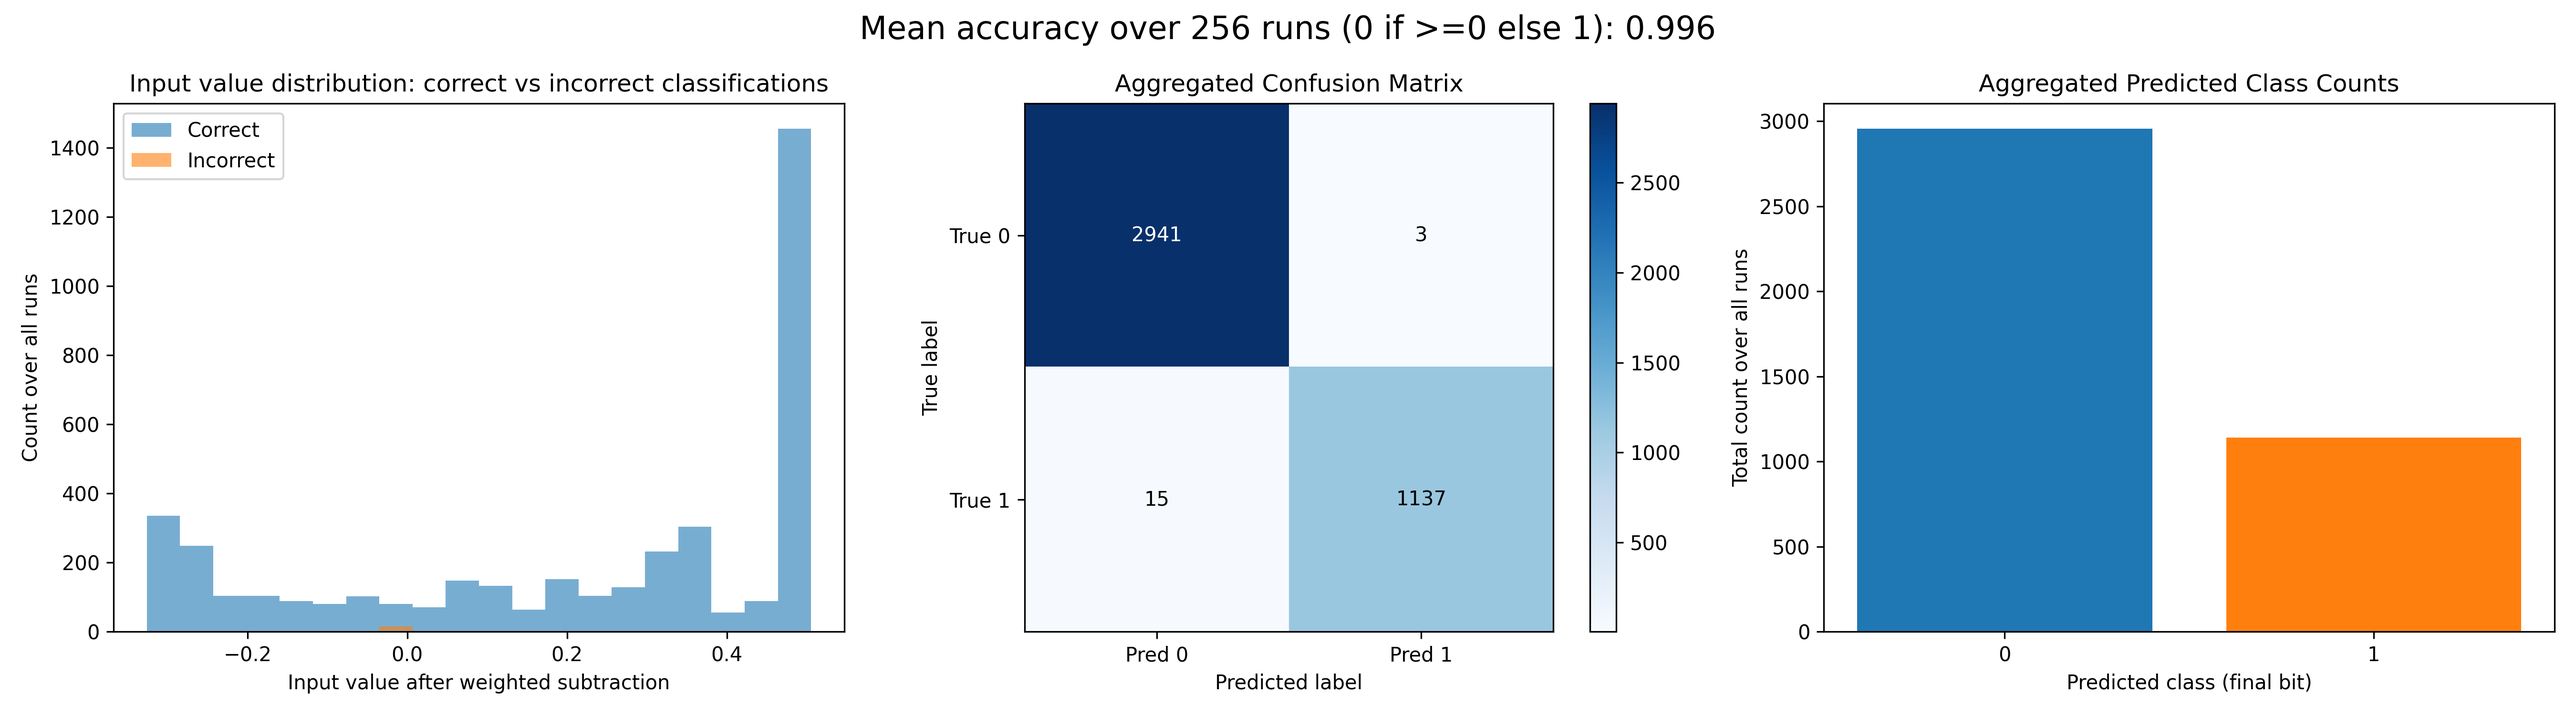
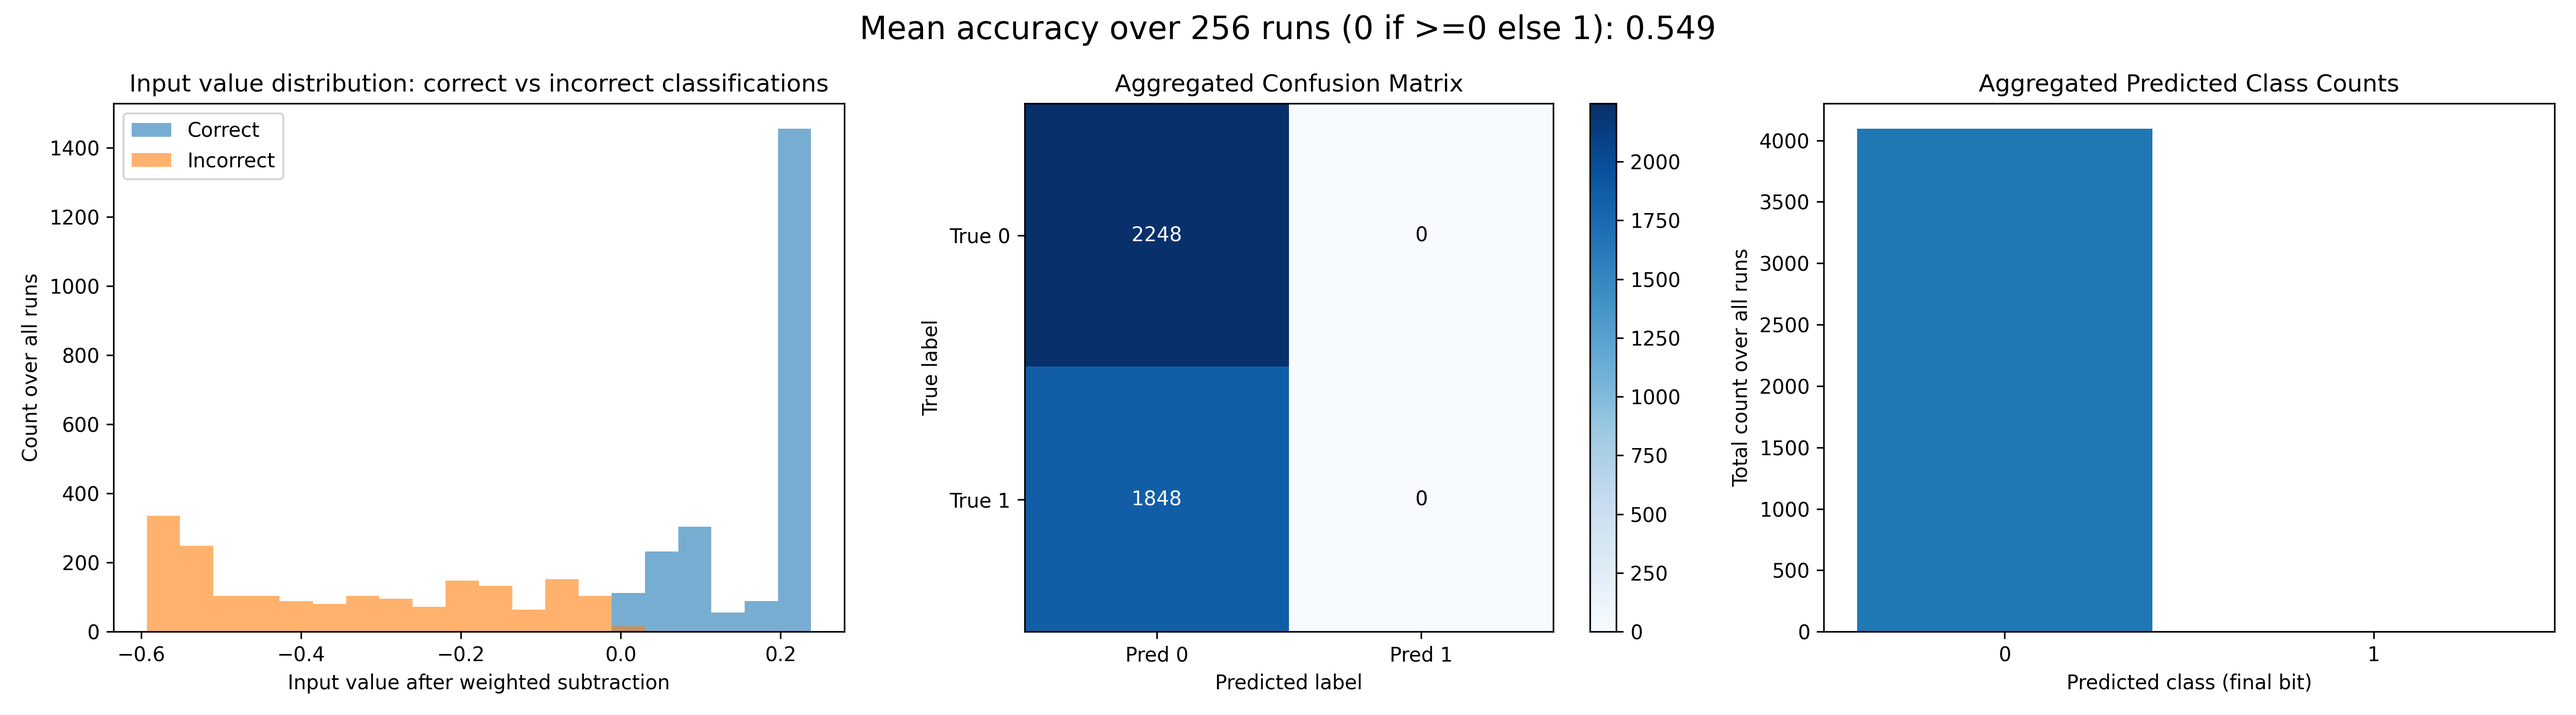
adjusted plots for clarity

diff --git a/ehands_qcrank_vertex_classification_V1.py b/ehands_qcrank_vertex_classification_V1.py
@@ -543,31 +543,24 @@ def qcrank_ehands_vertex_classification_image(
         if image_isovalue >= 1.0:
             raise ValueError("Method 3 requires isovalue t < 1.0 for w = 1/(1-t).")
         candidate_w = 1.0 / (1.0 - image_isovalue)
-        if 0.0 <= candidate_w <= 1.0:
-            method3_weight = candidate_w
-            region_proc = (region_gray + 1.0) / 2.0
-            image_isovalue_proc = (image_isovalue + 1.0) / 2.0
-            class_threshold = 0.5
-            print(
-                "Method 3 enabled: shifted x,t from [-1,1] to [0,1], "
-                f"classification threshold set to 0.5, and weight set to w=1/(1-t)={method3_weight:.4f}."
-            )
-        else:
-            if classification_mode == "3":
-                raise ValueError(
-                    "Method 3 was forced on, but computed w=1/(1-t)="
-                    f"{candidate_w:.4f} is outside [0,1]. "
-                    "Choose --classification-mode 1/auto or adjust isovalue/inside-bias."
-                )
-            use_method3 = False
-            method3_weight = weight
-            region_proc = region_gray
-            image_isovalue_proc = image_isovalue
-            class_threshold = 0.0
-            print(
-                "Method 3 skipped: computed w=1/(1-t)="
-                f"{candidate_w:.4f}, which is outside [0,1]. Falling back to baseline method."
-            )
+        #if 0.0 <= candidate_w <= 1.0:
+        t_prime = (image_isovalue + 1.0) / 2.0
+        method3_weight = 1.0 / 2 * (1.0 - t_prime)
+        #method3_weight = candidate_w
+        region_proc = (region_gray + 1.0) / 2.0
+        image_isovalue_proc = (image_isovalue + 1.0) / 2.0
+        class_threshold = 0.5
+        print(
+            "Method 3 enabled: shifted x,t from [-1,1] to [0,1], "
+            f"classification threshold set to 0.5, and weight set to w=1/(1-t)={method3_weight:.4f}."
+        )
+        #else:
+        #    if classification_mode == "3":
+        #        raise ValueError(
+        #            "Method 3 was forced on, but computed w=1/(1-t)="
+        #            f"{candidate_w:.4f} is outside [0,1]. "
+        #            "Choose --classification-mode 1/auto or adjust isovalue/inside-bias."
+        #        )
     else:
         method3_weight = weight
         region_proc = region_gray
@@ -588,6 +581,8 @@ def qcrank_ehands_vertex_classification_image(
     acc_list = []
     all_correct_vals = []
     all_incorrect_vals = []
+    all_true_inside_vals = []
+    all_true_outside_vals = []
 
     tile_index = 0
     for ty in range(n_ty):
@@ -641,6 +636,19 @@ def qcrank_ehands_vertex_classification_image(
             else:
                 subtraction_vals = method3_weight * data_vals - (1.0 - method3_weight) * vc.isovalue
 
+            y_t = np.asarray(comp["y_true"]).reshape(-1)
+            y_p = np.asarray(comp["y_pred"]).reshape(-1)
+            sub = np.asarray(subtraction_vals).reshape(-1)
+            correct_mask = y_t == y_p
+            incorrect_mask = ~correct_mask
+            true_inside_mask = y_t == 0
+            true_outside_mask = y_t == 1
+
+            if np.any(true_inside_mask):
+                all_true_inside_vals.append(sub[true_inside_mask])
+            if np.any(true_outside_mask):
+                all_true_outside_vals.append(sub[true_outside_mask])
+
             print_tile_table = n_tiles == 1 and vc.di.n_data <= 64
             if print_tile_table:
                 correct_vals, incorrect_vals = print_per_datapoint_classification_table(
@@ -654,11 +662,6 @@ def qcrank_ehands_vertex_classification_image(
                 if incorrect_vals is not None:
                     all_incorrect_vals.append(incorrect_vals)
             else:
-                y_t = np.asarray(comp["y_true"]).reshape(-1)
-                y_p = np.asarray(comp["y_pred"]).reshape(-1)
-                sub = np.asarray(subtraction_vals).reshape(-1)
-                correct_mask = y_t == y_p
-                incorrect_mask = ~correct_mask
                 if np.any(correct_mask):
                     all_correct_vals.append(sub[correct_mask])
                 if np.any(incorrect_mask):
@@ -694,11 +697,17 @@ def qcrank_ehands_vertex_classification_image(
     print(f"Saving side-by-side figure to: {side_by_side_out}")
 
     plot_classification_summary_figure(
+        region_width=rw,
+        region_height=rh,
+        tile_width=tile_width,
+        tile_height=tile_height,
         acc_list=acc_list,
         cm_list=cm_list,
         agg_counts=agg_counts,
         all_correct_vals=all_correct_vals,
         all_incorrect_vals=all_incorrect_vals,
+        all_true_inside_vals=all_true_inside_vals,
+        all_true_outside_vals=all_true_outside_vals,
         out_name=summary_out,
         bins=20,
     )
@@ -736,7 +745,7 @@ def plot_full_image_vs_classification(
     h, w = input_image.shape
     fig_w = min(22.0, max(10.0, w / 32.0 + 4.0))
     fig_h = min(14.0, max(5.0, h / 32.0 + 2.0))
-    fig, axes = plt.subplots(1, 2, figsize=(2.0 * fig_w, fig_h))
+    fig, axes = plt.subplots(1, 2, figsize=(1.65 * fig_w, fig_h))
 
     ax_input, ax_pred = axes
     in_vmin, in_vmax = float(input_value_range[0]), float(input_value_range[1])
@@ -756,17 +765,21 @@ def plot_full_image_vs_classification(
                 ov = np.zeros((h, w, 4), dtype=np.float32)
                 ov[pad_mask] = (0.95, 0.15, 0.65, 0.55)
                 ax.imshow(ov, origin="upper", interpolation="nearest", zorder=2)
-            ax_input.set_title("Input (magenta = padded band, -1)")
+            ax_input.set_title("Input Image Grayscale (magenta = padded band, -1)")
         else:
             ax_input.set_title(
-                "Input (no padded band — region is a multiple of tile size)"
+                "Input Image Grayscale"
             )
     else:
-        ax_input.set_title("Input (full region, normalized grayscale)")
+        ax_input.set_title("Input Image Grayscale (full region)")
     ax_input.set_xlabel("x (column)")
     ax_input.set_ylabel("y (row)")
     cbar0 = fig.colorbar(
-        im0, ax=ax_input, ticks=[in_vmin, 0.5 * (in_vmin + in_vmax), in_vmax], fraction=0.046, pad=0.04
+        im0,
+        ax=ax_input,
+        ticks=[in_vmin, 0.5 * (in_vmin + in_vmax), in_vmax],
+        fraction=0.042,
+        pad=0.02,
     )
     cbar0.set_ticklabels([f"{in_vmin:g}", f"{0.5 * (in_vmin + in_vmax):g}", f"{in_vmax:g}"])
 
@@ -775,20 +788,20 @@ def plot_full_image_vs_classification(
     )
     if region_size_hw is not None:
         if n_pad > 0:
-            ax_pred.set_title("Predicted (magenta = same padded band)")
+            ax_pred.set_title("Predicted (magenta = padded band) (stitched tiles)")
         else:
             ax_pred.set_title(
-                "Predicted (no padded band — canvas matches region)"
+                "Predicted Classes (stitched tiles)"
             )
     else:
-        ax_pred.set_title("Predicted classification (stitched tiles)")
+        ax_pred.set_title("Predicted Classes (stitched tiles)")
     ax_pred.set_xlabel("x (column)")
     ax_pred.set_ylabel("y (row)")
     cmap = plt.get_cmap("viridis_r")
     ax_pred.legend(
         handles=[
-            Patch(facecolor=cmap(0.0), edgecolor="black", label="0 = inside"),
-            Patch(facecolor=cmap(1.0), edgecolor="black", label="1 = outside"),
+            Patch(facecolor=cmap(0.0), edgecolor="black", label="Inside"),
+            Patch(facecolor=cmap(1.0), edgecolor="black", label="Outside"),
         ],
         loc="upper right",
         framealpha=0.95,
@@ -813,21 +826,16 @@ def plot_full_image_vs_classification(
         rh_s, rw_s = int(region_size_hw[0]), int(region_size_hw[1])
         th_s, tw_s = int(tile_size_hw[0]), int(tile_size_hw[1])
         cap = (
-            f"Canvas {w}×{h} px, region {rw_s}×{rh_s} px, tile {th_s}×{tw_s} px. "
-            f"Padded pixels (beyond region): {n_pad}. "
+            f"Region {rw_s}×{rh_s} px, tile size {th_s}×{tw_s} px. "
+            f"Padded pixels: {n_pad}. "
             f"Number of tiles: {n_tiles}. "
             f"Isovalue: {isovalue:.3f}"
         )
-        if n_pad == 0:
-            cap += (
-                " No extra band — width and height are multiples of the tile size, "
-                "so the tile grid fills the region exactly."
-            )
 
     if has_canvas_caption:
-        fig.tight_layout(rect=[0, 0, 1, 0.90])
+        fig.tight_layout(rect=[0, 0, 1, 0.90], w_pad=0.3)
     else:
-        fig.tight_layout()
+        fig.tight_layout(w_pad=0.3)
 
     if has_canvas_caption:
         fig.canvas.draw()
@@ -865,36 +873,53 @@ def plot_correct_incorrect_input_histogram(all_correct_vals, all_incorrect_vals,
     if concat_incorrect.size:
         ax.hist(concat_incorrect, bins=bin_edges, alpha=0.6, label="Incorrect", color="tab:orange")
 
-    ax.set_xlabel("Input value after weighted subtraction")
-    ax.set_ylabel("Count over all runs")
-    ax.set_title("Input value distribution: correct vs incorrect classifications")
+    ax.set_xlabel("Input data value after weighted subtraction")
+    ax.set_ylabel("Number of Samples")
+    ax.set_title("Input data value distribution: correct vs incorrect classifications")
     ax.legend()
 
 
-def plot_aggregated_confusion_matrix(total_cm, title="Aggregated Confusion Matrix", ax=None, cmap="Blues"):
+def plot_aggregated_confusion_matrix(total_cm, title="Aggregated Confusion Matrix", ax=None):
+    """Diagonal = correct (Blues, scaled within diagonal); off-diagonal = error (Oranges, scaled within errors)."""
     if ax is None:
         ax = plt.gca()
 
-    im = ax.imshow(total_cm, interpolation="nearest", cmap=cmap)
-    ax.set_title(title)
+    total_cm = np.asarray(total_cm, dtype=float)
+    cmap_blue = plt.colormaps["Blues"]
+    cmap_orange = plt.colormaps["Oranges"]
 
-    ax.figure.colorbar(im, ax=ax)
+    diag_max = max(total_cm[0, 0], total_cm[1, 1])
+    if diag_max <= 0:
+        diag_max = 1.0
+    rgba = np.zeros((2, 2, 4), dtype=np.float64)
+    for i in range(2):
+        for j in range(2):
+            val = total_cm[i, j]
+            if i == j:
+                t = val / diag_max
+                rgba[i, j] = cmap_blue(0.22 + 0.73 * t)
+            else:
+                t = val / diag_max
+                rgba[i, j] = cmap_orange(0.28 + 0.67 * t)
+
+    ax.imshow(rgba, interpolation="nearest")
+    ax.set_title(
+        f"{title}\n(diagonal: correct, blue | off-diagonal: error, orange)",
+        fontsize=10,
+    )
 
     tick_marks = np.arange(2)
     ax.set_xticks(tick_marks)
-    ax.set_xticklabels(["Pred 0", "Pred 1"])
+    ax.set_xticklabels(["Pred Inside", "Pred Outside"])
     ax.set_yticks(tick_marks)
-    ax.set_yticklabels(["True 0", "True 1"])
-    ax.set_xlabel("Predicted label")
-    ax.set_ylabel("True label")
+    ax.set_yticklabels(["True Inside", "True Outside"])
+    ax.set_xlabel("Predicted Class")
+    ax.set_ylabel("True Class")
 
-    norm = im.norm
-    cm = im.get_cmap()
     for i in range(2):
         for j in range(2):
             val = int(total_cm[i, j])
-            rgba = cm(norm(val))
-            r, g, b = rgba[0], rgba[1], rgba[2]
+            r, g, b, _ = rgba[i, j]
             luminance = 0.2126 * r + 0.7152 * g + 0.0722 * b
             ax.text(
                 j,
@@ -914,8 +939,35 @@ def plot_aggregated_predicted_class_counts(agg_counts, ax=None):
     values = [agg_counts["0"], agg_counts["1"]]
     ax.bar(labels, values, color=["tab:blue", "tab:orange"])
     ax.set_xlabel("Predicted class (final bit)")
-    ax.set_ylabel("Total count over all runs")
+    ax.set_ylabel("Number of Samples")
     ax.set_title("Aggregated Predicted Class Counts")
+
+
+def plot_true_class_input_histogram(all_true_inside_vals, all_true_outside_vals, bins=20, ax=None):
+    if ax is None:
+        ax = plt.gca()
+
+    if not (all_true_inside_vals or all_true_outside_vals):
+        ax.set_title("True input data distribution")
+        ax.text(0.5, 0.5, "No data", ha="center", va="center")
+        ax.axis("off")
+        return
+
+    concat_true_inside = np.concatenate(all_true_inside_vals) if all_true_inside_vals else np.array([])
+    concat_true_outside = np.concatenate(all_true_outside_vals) if all_true_outside_vals else np.array([])
+    all_true_vals = np.concatenate([a for a in (concat_true_inside, concat_true_outside) if a.size])
+    bin_edges = np.histogram_bin_edges(all_true_vals, bins=bins)
+
+    ax.hist(
+        all_true_vals,
+        bins=bin_edges,
+        alpha=0.75,
+        color="tab:blue",
+    )
+
+    ax.set_xlabel("Input data value after weighted subtraction")
+    ax.set_ylabel("Number of Samples")
+    ax.set_title("Input data value distribution (all true classes)")
 
 
 def print_per_datapoint_classification_table(data_vals, subtraction_vals, y_true, y_pred):
@@ -959,22 +1011,29 @@ def print_per_datapoint_classification_table(data_vals, subtraction_vals, y_true
     return correct_vals, incorrect_vals
 
 
-def plot_classification_summary_figure(acc_list, cm_list, agg_counts, all_correct_vals, all_incorrect_vals, out_name, bins=20):
+def plot_classification_summary_figure(region_width, region_height, tile_width, tile_height, acc_list, cm_list, agg_counts, all_correct_vals, all_incorrect_vals, all_true_inside_vals, all_true_outside_vals, out_name, bins=20):
     mean_acc = float(np.mean(acc_list)) if acc_list else 0.0
-    print(f"Mean accuracy over {len(acc_list)} runs (0 if >=0 else 1): {mean_acc:.3f}")
+    title = f"Mean accuracy over {region_width}x{region_height} region, with {len(acc_list)} ({tile_width}x{tile_height}) tiles: {mean_acc:.3f}"
+    print(title)
 
     fig, ax_arr = plt.subplots(1, 3, figsize=(18, 5))
     fig.suptitle(
-        f"Mean accuracy over {len(acc_list)} runs (0 if >=0 else 1): {mean_acc:.3f}",
+        title,
         fontsize=16,
     )
-    ax_hist, ax_cm, ax_bar = ax_arr
+    ax_hist, ax_true_hist, ax_cm = ax_arr
 
     plot_correct_incorrect_input_histogram(
         all_correct_vals,
         all_incorrect_vals,
         bins=bins,
         ax=ax_hist,
+    )
+    plot_true_class_input_histogram(
+        all_true_inside_vals,
+        all_true_outside_vals,
+        bins=bins,
+        ax=ax_true_hist,
     )
 
     if cm_list:
@@ -990,7 +1049,7 @@ def plot_classification_summary_figure(acc_list, cm_list, agg_counts, all_correc
         ax_cm.text(0.5, 0.5, "No CM data", ha="center", va="center")
         ax_cm.axis("off")
 
-    plot_aggregated_predicted_class_counts(agg_counts, ax=ax_bar)
+    #plot_aggregated_predicted_class_counts(agg_counts, ax=ax_bar)
 
     fig.tight_layout()
     fig.savefig(out_name, dpi=300)
